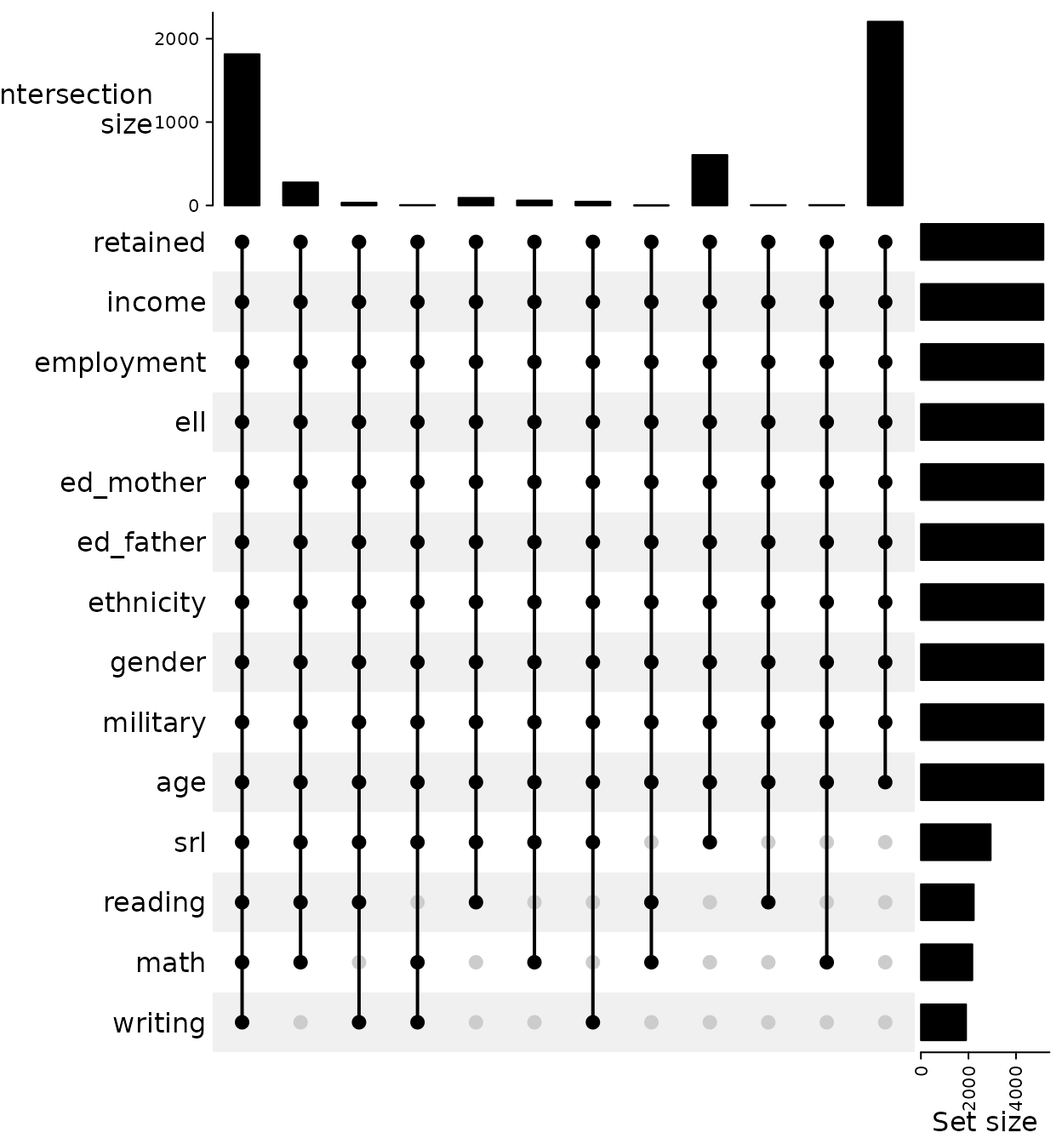
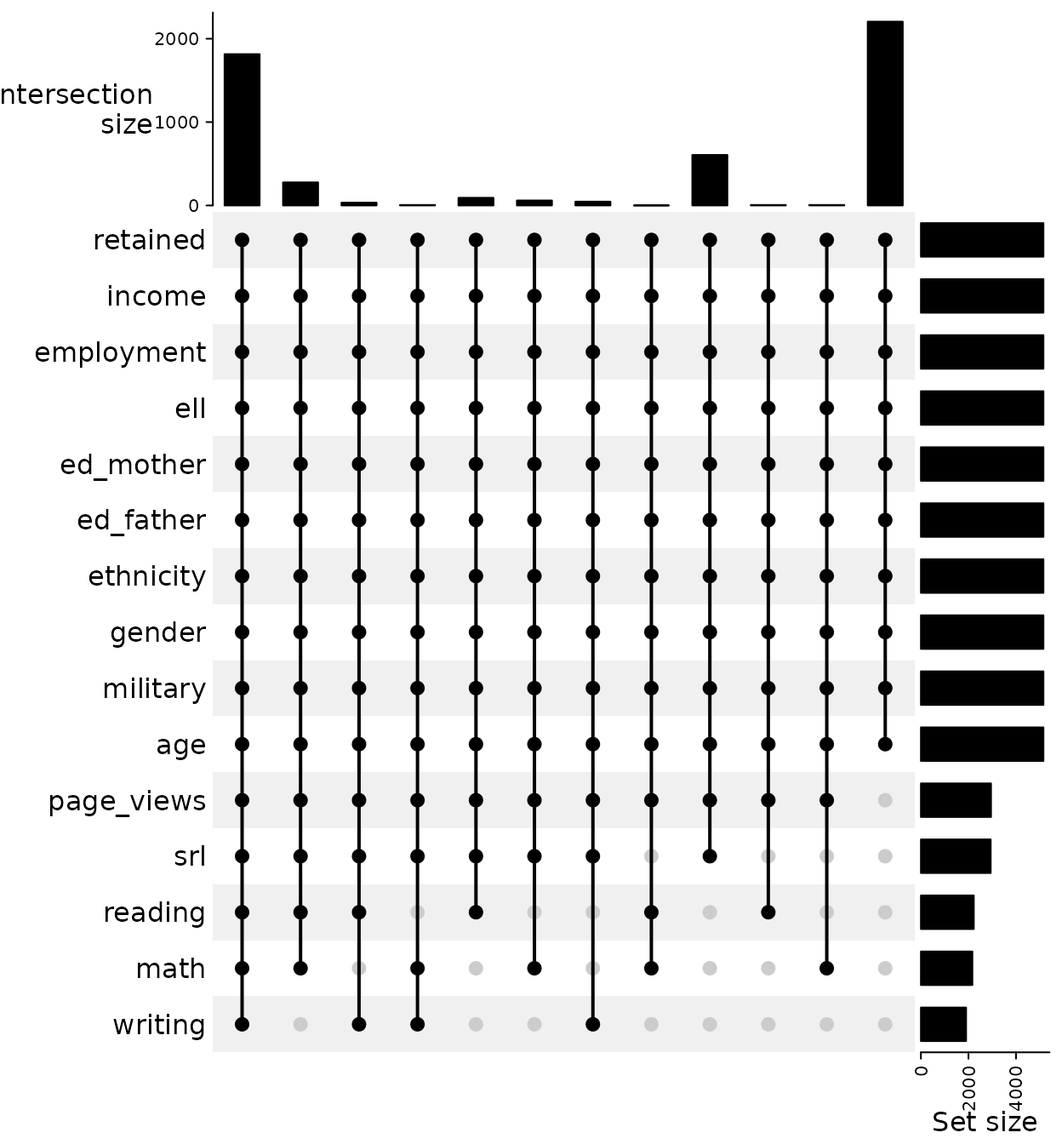
Deploying to gh-pages from @ jbryer/medley@984eda3847856fd7dd8a18c2cd9297b23d243687 🚀

diff --git a/articles/medley.html b/articles/medley.html
@@ -173,6 +173,22 @@ retained
 </tr>
 <tr>
 <td style="text-align:left;">
+page_views
+</td>
+<td style="text-align:left;">
+</td>
+<td style="text-align:left;">
+39
+</td>
+<td style="text-align:left;">
+24
+</td>
+<td style="text-align:left;">
+34
+</td>
+</tr>
+<tr>
+<td style="text-align:left;">
 srl
 </td>
 <td style="text-align:left;">
@@ -592,10 +608,10 @@ regression model using the full data set.</p>
 <span>                 predicted <span class="op">=</span> <span class="va">mice_lr_predictions</span> <span class="op">&gt;</span> <span class="fl">0.5</span><span class="op">)</span></span>
 <span><span class="co">#&gt;               predicted             </span></span>
 <span><span class="co">#&gt;   observed        FALSE         TRUE</span></span>
-<span><span class="co">#&gt;      FALSE 288 (18.62%) 393 (25.40%)</span></span>
-<span><span class="co">#&gt;       TRUE 212 (13.70%) 654 (42.28%)</span></span>
-<span><span class="co">#&gt; Accuracy: 60.89%</span></span></code></pre></div>
-<p>The overall accuracy using only imputed data set is 60.89%</p>
+<span><span class="co">#&gt;      FALSE 297 (19.20%) 384 (24.82%)</span></span>
+<span><span class="co">#&gt;       TRUE 213 (13.77%) 653 (42.21%)</span></span>
+<span><span class="co">#&gt; Accuracy: 61.41%</span></span></code></pre></div>
+<p>The overall accuracy using only imputed data set is 61.41%</p>
 </div>
 </div>
 <div class="section level2">
@@ -619,37 +635,37 @@ take any additional parameters that need to be passed to the
 by model along with the number of observations and formula for each of
 the models. Before exploring the specific of the modeling this reveals
 that the pattern of missing data is predictive of success. Students who
-complete all four DAACS assessments are 27.8% more likely to be retained
+complete all four DAACS assessments are % more likely to be retained
 then students who did not complete any of the assessments.</p>
 <table class="table">
 <caption>Baseline retention rate by model</caption>
 <colgroup>
 <col width="3%">
 <col width="3%">
-<col width="5%">
-<col width="86%">
+<col width="4%">
+<col width="88%">
 </colgroup>
 <thead><tr class="header">
 <th align="right">Model</th>
 <th align="right">n</th>
-<th align="right">Retained</th>
-<th align="left">Model Formula</th>
+<th align="right">Success</th>
+<th align="left">Formula</th>
 </tr></thead>
 <tbody>
 <tr class="odd">
 <td align="right">1</td>
 <td align="right">1268</td>
 <td align="right">70.98</td>
-<td align="left">retained ~ srl + math + reading + writing + income +
-employment + ell + ed_mother + ed_father + ethnicity + gender + military
-+ age</td>
+<td align="left">retained ~ page_views + srl + math + reading + writing
++ income + employment + ell + ed_mother + ed_father + ethnicity + gender
++ military + age</td>
 </tr>
 <tr class="even">
 <td align="right">2</td>
 <td align="right">788</td>
 <td align="right">58.25</td>
-<td align="left">retained ~ srl + income + employment + ell + ed_mother
-+ ed_father + ethnicity + gender + military + age</td>
+<td align="left">retained ~ page_views + srl + income + employment + ell
++ ed_mother + ed_father + ethnicity + gender + military + age</td>
 </tr>
 <tr class="odd">
 <td align="right">3</td>
@@ -704,26 +720,35 @@ models estimated.</p>
 </tr>
 <tr>
 <th style="vertical-align: top; text-align: left; white-space: normal; border-style: solid solid solid solid; border-width: 0pt 0pt 0pt 0pt;    padding: 6pt 6pt 6pt 6pt; font-weight: normal;">(Intercept)</th>
-<td style="vertical-align: top; text-align: right; white-space: normal; border-style: solid solid solid solid; border-width: 0.4pt 0pt 0pt 0pt;    padding: 6pt 6pt 6pt 6pt; font-weight: normal;">0.551 ***</td>
-<td style="vertical-align: top; text-align: right; white-space: normal; border-style: solid solid solid solid; border-width: 0.4pt 0pt 0pt 0pt;    padding: 6pt 6pt 6pt 6pt; font-weight: normal;">(0.143)</td>
-<td style="vertical-align: top; text-align: right; white-space: normal; border-style: solid solid solid solid; border-width: 0.4pt 0pt 0pt 0pt;    padding: 6pt 6pt 6pt 6pt; font-weight: normal;">0.520 ** </td>
-<td style="vertical-align: top; text-align: right; white-space: normal; border-style: solid solid solid solid; border-width: 0.4pt 0pt 0pt 0pt;    padding: 6pt 6pt 6pt 6pt; font-weight: normal;">(0.173)</td>
+<td style="vertical-align: top; text-align: right; white-space: normal; border-style: solid solid solid solid; border-width: 0.4pt 0pt 0pt 0pt;    padding: 6pt 6pt 6pt 6pt; font-weight: normal;">0.574 ***</td>
+<td style="vertical-align: top; text-align: right; white-space: normal; border-style: solid solid solid solid; border-width: 0.4pt 0pt 0pt 0pt;    padding: 6pt 6pt 6pt 6pt; font-weight: normal;">(0.144)</td>
+<td style="vertical-align: top; text-align: right; white-space: normal; border-style: solid solid solid solid; border-width: 0.4pt 0pt 0pt 0pt;    padding: 6pt 6pt 6pt 6pt; font-weight: normal;">0.533 ** </td>
+<td style="vertical-align: top; text-align: right; white-space: normal; border-style: solid solid solid solid; border-width: 0.4pt 0pt 0pt 0pt;    padding: 6pt 6pt 6pt 6pt; font-weight: normal;">(0.175)</td>
 <td style="vertical-align: top; text-align: right; white-space: normal; border-style: solid solid solid solid; border-width: 0.4pt 0pt 0pt 0pt;    padding: 6pt 6pt 6pt 6pt; font-weight: normal;">0.435 ***</td>
 <td style="vertical-align: top; text-align: right; white-space: normal; border-style: solid solid solid solid; border-width: 0.4pt 0pt 0pt 0pt;    padding: 6pt 6pt 6pt 6pt; font-weight: normal;">(0.085)</td>
 </tr>
 <tr>
+<th style="vertical-align: top; text-align: left; white-space: normal; border-style: solid solid solid solid; border-width: 0pt 0pt 0pt 0pt;    padding: 6pt 6pt 6pt 6pt; font-weight: normal;">page_views</th>
+<td style="vertical-align: top; text-align: right; white-space: normal; border-style: solid solid solid solid; border-width: 0pt 0pt 0pt 0pt;    padding: 6pt 6pt 6pt 6pt; font-weight: normal;">-0.001    </td>
+<td style="vertical-align: top; text-align: right; white-space: normal; border-style: solid solid solid solid; border-width: 0pt 0pt 0pt 0pt;    padding: 6pt 6pt 6pt 6pt; font-weight: normal;">(0.001)</td>
+<td style="vertical-align: top; text-align: right; white-space: normal; border-style: solid solid solid solid; border-width: 0pt 0pt 0pt 0pt;    padding: 6pt 6pt 6pt 6pt; font-weight: normal;">-0.001    </td>
+<td style="vertical-align: top; text-align: right; white-space: normal; border-style: solid solid solid solid; border-width: 0pt 0pt 0pt 0pt;    padding: 6pt 6pt 6pt 6pt; font-weight: normal;">(0.001)</td>
+<td style="vertical-align: top; text-align: right; white-space: normal; border-style: solid solid solid solid; border-width: 0pt 0pt 0pt 0pt;    padding: 6pt 6pt 6pt 6pt; font-weight: normal;">        </td>
+<td style="vertical-align: top; text-align: right; white-space: normal; border-style: solid solid solid solid; border-width: 0pt 0pt 0pt 0pt;    padding: 6pt 6pt 6pt 6pt; font-weight: normal;">     </td>
+</tr>
+<tr>
 <th style="vertical-align: top; text-align: left; white-space: normal; border-style: solid solid solid solid; border-width: 0pt 0pt 0pt 0pt;    padding: 6pt 6pt 6pt 6pt; font-weight: normal;">srl</th>
-<td style="vertical-align: top; text-align: right; white-space: normal; border-style: solid solid solid solid; border-width: 0pt 0pt 0pt 0pt;    padding: 6pt 6pt 6pt 6pt; font-weight: normal;">-0.023    </td>
+<td style="vertical-align: top; text-align: right; white-space: normal; border-style: solid solid solid solid; border-width: 0pt 0pt 0pt 0pt;    padding: 6pt 6pt 6pt 6pt; font-weight: normal;">-0.025    </td>
 <td style="vertical-align: top; text-align: right; white-space: normal; border-style: solid solid solid solid; border-width: 0pt 0pt 0pt 0pt;    padding: 6pt 6pt 6pt 6pt; font-weight: normal;">(0.031)</td>
-<td style="vertical-align: top; text-align: right; white-space: normal; border-style: solid solid solid solid; border-width: 0pt 0pt 0pt 0pt;    padding: 6pt 6pt 6pt 6pt; font-weight: normal;">-0.044    </td>
+<td style="vertical-align: top; text-align: right; white-space: normal; border-style: solid solid solid solid; border-width: 0pt 0pt 0pt 0pt;    padding: 6pt 6pt 6pt 6pt; font-weight: normal;">-0.043    </td>
 <td style="vertical-align: top; text-align: right; white-space: normal; border-style: solid solid solid solid; border-width: 0pt 0pt 0pt 0pt;    padding: 6pt 6pt 6pt 6pt; font-weight: normal;">(0.042)</td>
 <td style="vertical-align: top; text-align: right; white-space: normal; border-style: solid solid solid solid; border-width: 0pt 0pt 0pt 0pt;    padding: 6pt 6pt 6pt 6pt; font-weight: normal;">        </td>
 <td style="vertical-align: top; text-align: right; white-space: normal; border-style: solid solid solid solid; border-width: 0pt 0pt 0pt 0pt;    padding: 6pt 6pt 6pt 6pt; font-weight: normal;">     </td>
 </tr>
 <tr>
 <th style="vertical-align: top; text-align: left; white-space: normal; border-style: solid solid solid solid; border-width: 0pt 0pt 0pt 0pt;    padding: 6pt 6pt 6pt 6pt; font-weight: normal;">math</th>
-<td style="vertical-align: top; text-align: right; white-space: normal; border-style: solid solid solid solid; border-width: 0pt 0pt 0pt 0pt;    padding: 6pt 6pt 6pt 6pt; font-weight: normal;">0.074    </td>
-<td style="vertical-align: top; text-align: right; white-space: normal; border-style: solid solid solid solid; border-width: 0pt 0pt 0pt 0pt;    padding: 6pt 6pt 6pt 6pt; font-weight: normal;">(0.074)</td>
+<td style="vertical-align: top; text-align: right; white-space: normal; border-style: solid solid solid solid; border-width: 0pt 0pt 0pt 0pt;    padding: 6pt 6pt 6pt 6pt; font-weight: normal;">0.085    </td>
+<td style="vertical-align: top; text-align: right; white-space: normal; border-style: solid solid solid solid; border-width: 0pt 0pt 0pt 0pt;    padding: 6pt 6pt 6pt 6pt; font-weight: normal;">(0.075)</td>
 <td style="vertical-align: top; text-align: right; white-space: normal; border-style: solid solid solid solid; border-width: 0pt 0pt 0pt 0pt;    padding: 6pt 6pt 6pt 6pt; font-weight: normal;">        </td>
 <td style="vertical-align: top; text-align: right; white-space: normal; border-style: solid solid solid solid; border-width: 0pt 0pt 0pt 0pt;    padding: 6pt 6pt 6pt 6pt; font-weight: normal;">     </td>
 <td style="vertical-align: top; text-align: right; white-space: normal; border-style: solid solid solid solid; border-width: 0pt 0pt 0pt 0pt;    padding: 6pt 6pt 6pt 6pt; font-weight: normal;">        </td>
@@ -740,8 +765,8 @@ models estimated.</p>
 </tr>
 <tr>
 <th style="vertical-align: top; text-align: left; white-space: normal; border-style: solid solid solid solid; border-width: 0pt 0pt 0pt 0pt;    padding: 6pt 6pt 6pt 6pt; font-weight: normal;">writing</th>
-<td style="vertical-align: top; text-align: right; white-space: normal; border-style: solid solid solid solid; border-width: 0pt 0pt 0pt 0pt;    padding: 6pt 6pt 6pt 6pt; font-weight: normal;">0.007    </td>
-<td style="vertical-align: top; text-align: right; white-space: normal; border-style: solid solid solid solid; border-width: 0pt 0pt 0pt 0pt;    padding: 6pt 6pt 6pt 6pt; font-weight: normal;">(0.082)</td>
+<td style="vertical-align: top; text-align: right; white-space: normal; border-style: solid solid solid solid; border-width: 0pt 0pt 0pt 0pt;    padding: 6pt 6pt 6pt 6pt; font-weight: normal;">0.031    </td>
+<td style="vertical-align: top; text-align: right; white-space: normal; border-style: solid solid solid solid; border-width: 0pt 0pt 0pt 0pt;    padding: 6pt 6pt 6pt 6pt; font-weight: normal;">(0.083)</td>
 <td style="vertical-align: top; text-align: right; white-space: normal; border-style: solid solid solid solid; border-width: 0pt 0pt 0pt 0pt;    padding: 6pt 6pt 6pt 6pt; font-weight: normal;">        </td>
 <td style="vertical-align: top; text-align: right; white-space: normal; border-style: solid solid solid solid; border-width: 0pt 0pt 0pt 0pt;    padding: 6pt 6pt 6pt 6pt; font-weight: normal;">     </td>
 <td style="vertical-align: top; text-align: right; white-space: normal; border-style: solid solid solid solid; border-width: 0pt 0pt 0pt 0pt;    padding: 6pt 6pt 6pt 6pt; font-weight: normal;">        </td>
@@ -749,16 +774,16 @@ models estimated.</p>
 </tr>
 <tr>
 <th style="vertical-align: top; text-align: left; white-space: normal; border-style: solid solid solid solid; border-width: 0pt 0pt 0pt 0pt;    padding: 6pt 6pt 6pt 6pt; font-weight: normal;">income</th>
-<td style="vertical-align: top; text-align: right; white-space: normal; border-style: solid solid solid solid; border-width: 0pt 0pt 0pt 0pt;    padding: 6pt 6pt 6pt 6pt; font-weight: normal;">-0.001    </td>
+<td style="vertical-align: top; text-align: right; white-space: normal; border-style: solid solid solid solid; border-width: 0pt 0pt 0pt 0pt;    padding: 6pt 6pt 6pt 6pt; font-weight: normal;">-0.000    </td>
 <td style="vertical-align: top; text-align: right; white-space: normal; border-style: solid solid solid solid; border-width: 0pt 0pt 0pt 0pt;    padding: 6pt 6pt 6pt 6pt; font-weight: normal;">(0.006)</td>
-<td style="vertical-align: top; text-align: right; white-space: normal; border-style: solid solid solid solid; border-width: 0pt 0pt 0pt 0pt;    padding: 6pt 6pt 6pt 6pt; font-weight: normal;">0.011    </td>
+<td style="vertical-align: top; text-align: right; white-space: normal; border-style: solid solid solid solid; border-width: 0pt 0pt 0pt 0pt;    padding: 6pt 6pt 6pt 6pt; font-weight: normal;">0.010    </td>
 <td style="vertical-align: top; text-align: right; white-space: normal; border-style: solid solid solid solid; border-width: 0pt 0pt 0pt 0pt;    padding: 6pt 6pt 6pt 6pt; font-weight: normal;">(0.008)</td>
 <td style="vertical-align: top; text-align: right; white-space: normal; border-style: solid solid solid solid; border-width: 0pt 0pt 0pt 0pt;    padding: 6pt 6pt 6pt 6pt; font-weight: normal;">0.014 *  </td>
 <td style="vertical-align: top; text-align: right; white-space: normal; border-style: solid solid solid solid; border-width: 0pt 0pt 0pt 0pt;    padding: 6pt 6pt 6pt 6pt; font-weight: normal;">(0.006)</td>
 </tr>
 <tr>
 <th style="vertical-align: top; text-align: left; white-space: normal; border-style: solid solid solid solid; border-width: 0pt 0pt 0pt 0pt;    padding: 6pt 6pt 6pt 6pt; font-weight: normal;">employment</th>
-<td style="vertical-align: top; text-align: right; white-space: normal; border-style: solid solid solid solid; border-width: 0pt 0pt 0pt 0pt;    padding: 6pt 6pt 6pt 6pt; font-weight: normal;">0.031    </td>
+<td style="vertical-align: top; text-align: right; white-space: normal; border-style: solid solid solid solid; border-width: 0pt 0pt 0pt 0pt;    padding: 6pt 6pt 6pt 6pt; font-weight: normal;">0.030    </td>
 <td style="vertical-align: top; text-align: right; white-space: normal; border-style: solid solid solid solid; border-width: 0pt 0pt 0pt 0pt;    padding: 6pt 6pt 6pt 6pt; font-weight: normal;">(0.017)</td>
 <td style="vertical-align: top; text-align: right; white-space: normal; border-style: solid solid solid solid; border-width: 0pt 0pt 0pt 0pt;    padding: 6pt 6pt 6pt 6pt; font-weight: normal;">-0.043    </td>
 <td style="vertical-align: top; text-align: right; white-space: normal; border-style: solid solid solid solid; border-width: 0pt 0pt 0pt 0pt;    padding: 6pt 6pt 6pt 6pt; font-weight: normal;">(0.024)</td>
@@ -767,9 +792,9 @@ models estimated.</p>
 </tr>
 <tr>
 <th style="vertical-align: top; text-align: left; white-space: normal; border-style: solid solid solid solid; border-width: 0pt 0pt 0pt 0pt;    padding: 6pt 6pt 6pt 6pt; font-weight: normal;">ell</th>
-<td style="vertical-align: top; text-align: right; white-space: normal; border-style: solid solid solid solid; border-width: 0pt 0pt 0pt 0pt;    padding: 6pt 6pt 6pt 6pt; font-weight: normal;">0.006    </td>
+<td style="vertical-align: top; text-align: right; white-space: normal; border-style: solid solid solid solid; border-width: 0pt 0pt 0pt 0pt;    padding: 6pt 6pt 6pt 6pt; font-weight: normal;">0.004    </td>
 <td style="vertical-align: top; text-align: right; white-space: normal; border-style: solid solid solid solid; border-width: 0pt 0pt 0pt 0pt;    padding: 6pt 6pt 6pt 6pt; font-weight: normal;">(0.053)</td>
-<td style="vertical-align: top; text-align: right; white-space: normal; border-style: solid solid solid solid; border-width: 0pt 0pt 0pt 0pt;    padding: 6pt 6pt 6pt 6pt; font-weight: normal;">0.105    </td>
+<td style="vertical-align: top; text-align: right; white-space: normal; border-style: solid solid solid solid; border-width: 0pt 0pt 0pt 0pt;    padding: 6pt 6pt 6pt 6pt; font-weight: normal;">0.103    </td>
 <td style="vertical-align: top; text-align: right; white-space: normal; border-style: solid solid solid solid; border-width: 0pt 0pt 0pt 0pt;    padding: 6pt 6pt 6pt 6pt; font-weight: normal;">(0.074)</td>
 <td style="vertical-align: top; text-align: right; white-space: normal; border-style: solid solid solid solid; border-width: 0pt 0pt 0pt 0pt;    padding: 6pt 6pt 6pt 6pt; font-weight: normal;">0.069    </td>
 <td style="vertical-align: top; text-align: right; white-space: normal; border-style: solid solid solid solid; border-width: 0pt 0pt 0pt 0pt;    padding: 6pt 6pt 6pt 6pt; font-weight: normal;">(0.047)</td>
@@ -785,7 +810,7 @@ models estimated.</p>
 </tr>
 <tr>
 <th style="vertical-align: top; text-align: left; white-space: normal; border-style: solid solid solid solid; border-width: 0pt 0pt 0pt 0pt;    padding: 6pt 6pt 6pt 6pt; font-weight: normal;">ed_father</th>
-<td style="vertical-align: top; text-align: right; white-space: normal; border-style: solid solid solid solid; border-width: 0pt 0pt 0pt 0pt;    padding: 6pt 6pt 6pt 6pt; font-weight: normal;">0.003    </td>
+<td style="vertical-align: top; text-align: right; white-space: normal; border-style: solid solid solid solid; border-width: 0pt 0pt 0pt 0pt;    padding: 6pt 6pt 6pt 6pt; font-weight: normal;">0.002    </td>
 <td style="vertical-align: top; text-align: right; white-space: normal; border-style: solid solid solid solid; border-width: 0pt 0pt 0pt 0pt;    padding: 6pt 6pt 6pt 6pt; font-weight: normal;">(0.008)</td>
 <td style="vertical-align: top; text-align: right; white-space: normal; border-style: solid solid solid solid; border-width: 0pt 0pt 0pt 0pt;    padding: 6pt 6pt 6pt 6pt; font-weight: normal;">0.021    </td>
 <td style="vertical-align: top; text-align: right; white-space: normal; border-style: solid solid solid solid; border-width: 0pt 0pt 0pt 0pt;    padding: 6pt 6pt 6pt 6pt; font-weight: normal;">(0.012)</td>
@@ -794,9 +819,9 @@ models estimated.</p>
 </tr>
 <tr>
 <th style="vertical-align: top; text-align: left; white-space: normal; border-style: solid solid solid solid; border-width: 0pt 0pt 0pt 0pt;    padding: 6pt 6pt 6pt 6pt; font-weight: normal;">ethnicityHispanic</th>
-<td style="vertical-align: top; text-align: right; white-space: normal; border-style: solid solid solid solid; border-width: 0pt 0pt 0pt 0pt;    padding: 6pt 6pt 6pt 6pt; font-weight: normal;">-0.047    </td>
+<td style="vertical-align: top; text-align: right; white-space: normal; border-style: solid solid solid solid; border-width: 0pt 0pt 0pt 0pt;    padding: 6pt 6pt 6pt 6pt; font-weight: normal;">-0.049    </td>
 <td style="vertical-align: top; text-align: right; white-space: normal; border-style: solid solid solid solid; border-width: 0pt 0pt 0pt 0pt;    padding: 6pt 6pt 6pt 6pt; font-weight: normal;">(0.050)</td>
-<td style="vertical-align: top; text-align: right; white-space: normal; border-style: solid solid solid solid; border-width: 0pt 0pt 0pt 0pt;    padding: 6pt 6pt 6pt 6pt; font-weight: normal;">0.101    </td>
+<td style="vertical-align: top; text-align: right; white-space: normal; border-style: solid solid solid solid; border-width: 0pt 0pt 0pt 0pt;    padding: 6pt 6pt 6pt 6pt; font-weight: normal;">0.102    </td>
 <td style="vertical-align: top; text-align: right; white-space: normal; border-style: solid solid solid solid; border-width: 0pt 0pt 0pt 0pt;    padding: 6pt 6pt 6pt 6pt; font-weight: normal;">(0.061)</td>
 <td style="vertical-align: top; text-align: right; white-space: normal; border-style: solid solid solid solid; border-width: 0pt 0pt 0pt 0pt;    padding: 6pt 6pt 6pt 6pt; font-weight: normal;">0.026    </td>
 <td style="vertical-align: top; text-align: right; white-space: normal; border-style: solid solid solid solid; border-width: 0pt 0pt 0pt 0pt;    padding: 6pt 6pt 6pt 6pt; font-weight: normal;">(0.043)</td>
@@ -805,14 +830,14 @@ models estimated.</p>
 <th style="vertical-align: top; text-align: left; white-space: normal; border-style: solid solid solid solid; border-width: 0pt 0pt 0pt 0pt;    padding: 6pt 6pt 6pt 6pt; font-weight: normal;">ethnicityOther</th>
 <td style="vertical-align: top; text-align: right; white-space: normal; border-style: solid solid solid solid; border-width: 0pt 0pt 0pt 0pt;    padding: 6pt 6pt 6pt 6pt; font-weight: normal;">-0.003    </td>
 <td style="vertical-align: top; text-align: right; white-space: normal; border-style: solid solid solid solid; border-width: 0pt 0pt 0pt 0pt;    padding: 6pt 6pt 6pt 6pt; font-weight: normal;">(0.051)</td>
-<td style="vertical-align: top; text-align: right; white-space: normal; border-style: solid solid solid solid; border-width: 0pt 0pt 0pt 0pt;    padding: 6pt 6pt 6pt 6pt; font-weight: normal;">0.049    </td>
-<td style="vertical-align: top; text-align: right; white-space: normal; border-style: solid solid solid solid; border-width: 0pt 0pt 0pt 0pt;    padding: 6pt 6pt 6pt 6pt; font-weight: normal;">(0.066)</td>
+<td style="vertical-align: top; text-align: right; white-space: normal; border-style: solid solid solid solid; border-width: 0pt 0pt 0pt 0pt;    padding: 6pt 6pt 6pt 6pt; font-weight: normal;">0.052    </td>
+<td style="vertical-align: top; text-align: right; white-space: normal; border-style: solid solid solid solid; border-width: 0pt 0pt 0pt 0pt;    padding: 6pt 6pt 6pt 6pt; font-weight: normal;">(0.067)</td>
 <td style="vertical-align: top; text-align: right; white-space: normal; border-style: solid solid solid solid; border-width: 0pt 0pt 0pt 0pt;    padding: 6pt 6pt 6pt 6pt; font-weight: normal;">0.057    </td>
 <td style="vertical-align: top; text-align: right; white-space: normal; border-style: solid solid solid solid; border-width: 0pt 0pt 0pt 0pt;    padding: 6pt 6pt 6pt 6pt; font-weight: normal;">(0.046)</td>
 </tr>
 <tr>
 <th style="vertical-align: top; text-align: left; white-space: normal; border-style: solid solid solid solid; border-width: 0pt 0pt 0pt 0pt;    padding: 6pt 6pt 6pt 6pt; font-weight: normal;">ethnicityWhite</th>
-<td style="vertical-align: top; text-align: right; white-space: normal; border-style: solid solid solid solid; border-width: 0pt 0pt 0pt 0pt;    padding: 6pt 6pt 6pt 6pt; font-weight: normal;">0.012    </td>
+<td style="vertical-align: top; text-align: right; white-space: normal; border-style: solid solid solid solid; border-width: 0pt 0pt 0pt 0pt;    padding: 6pt 6pt 6pt 6pt; font-weight: normal;">0.009    </td>
 <td style="vertical-align: top; text-align: right; white-space: normal; border-style: solid solid solid solid; border-width: 0pt 0pt 0pt 0pt;    padding: 6pt 6pt 6pt 6pt; font-weight: normal;">(0.039)</td>
 <td style="vertical-align: top; text-align: right; white-space: normal; border-style: solid solid solid solid; border-width: 0pt 0pt 0pt 0pt;    padding: 6pt 6pt 6pt 6pt; font-weight: normal;">0.082    </td>
 <td style="vertical-align: top; text-align: right; white-space: normal; border-style: solid solid solid solid; border-width: 0pt 0pt 0pt 0pt;    padding: 6pt 6pt 6pt 6pt; font-weight: normal;">(0.045)</td>
@@ -821,18 +846,18 @@ models estimated.</p>
 </tr>
 <tr>
 <th style="vertical-align: top; text-align: left; white-space: normal; border-style: solid solid solid solid; border-width: 0pt 0pt 0pt 0pt;    padding: 6pt 6pt 6pt 6pt; font-weight: normal;">genderMALE</th>
-<td style="vertical-align: top; text-align: right; white-space: normal; border-style: solid solid solid solid; border-width: 0pt 0pt 0pt 0pt;    padding: 6pt 6pt 6pt 6pt; font-weight: normal;">0.040    </td>
+<td style="vertical-align: top; text-align: right; white-space: normal; border-style: solid solid solid solid; border-width: 0pt 0pt 0pt 0pt;    padding: 6pt 6pt 6pt 6pt; font-weight: normal;">0.037    </td>
 <td style="vertical-align: top; text-align: right; white-space: normal; border-style: solid solid solid solid; border-width: 0pt 0pt 0pt 0pt;    padding: 6pt 6pt 6pt 6pt; font-weight: normal;">(0.029)</td>
-<td style="vertical-align: top; text-align: right; white-space: normal; border-style: solid solid solid solid; border-width: 0pt 0pt 0pt 0pt;    padding: 6pt 6pt 6pt 6pt; font-weight: normal;">-0.011    </td>
+<td style="vertical-align: top; text-align: right; white-space: normal; border-style: solid solid solid solid; border-width: 0pt 0pt 0pt 0pt;    padding: 6pt 6pt 6pt 6pt; font-weight: normal;">-0.010    </td>
 <td style="vertical-align: top; text-align: right; white-space: normal; border-style: solid solid solid solid; border-width: 0pt 0pt 0pt 0pt;    padding: 6pt 6pt 6pt 6pt; font-weight: normal;">(0.040)</td>
 <td style="vertical-align: top; text-align: right; white-space: normal; border-style: solid solid solid solid; border-width: 0pt 0pt 0pt 0pt;    padding: 6pt 6pt 6pt 6pt; font-weight: normal;">0.064 *  </td>
 <td style="vertical-align: top; text-align: right; white-space: normal; border-style: solid solid solid solid; border-width: 0pt 0pt 0pt 0pt;    padding: 6pt 6pt 6pt 6pt; font-weight: normal;">(0.027)</td>
 </tr>
 <tr>
 <th style="vertical-align: top; text-align: left; white-space: normal; border-style: solid solid solid solid; border-width: 0pt 0pt 0pt 0pt;    padding: 6pt 6pt 6pt 6pt; font-weight: normal;">militaryTRUE</th>
-<td style="vertical-align: top; text-align: right; white-space: normal; border-style: solid solid solid solid; border-width: 0pt 0pt 0pt 0pt;    padding: 6pt 6pt 6pt 6pt; font-weight: normal;">0.169 ***</td>
-<td style="vertical-align: top; text-align: right; white-space: normal; border-style: solid solid solid solid; border-width: 0pt 0pt 0pt 0pt;    padding: 6pt 6pt 6pt 6pt; font-weight: normal;">(0.029)</td>
-<td style="vertical-align: top; text-align: right; white-space: normal; border-style: solid solid solid solid; border-width: 0pt 0pt 0pt 0pt;    padding: 6pt 6pt 6pt 6pt; font-weight: normal;">0.151 ***</td>
+<td style="vertical-align: top; text-align: right; white-space: normal; border-style: solid solid solid solid; border-width: 0pt 0pt 0pt 0pt;    padding: 6pt 6pt 6pt 6pt; font-weight: normal;">0.166 ***</td>
+<td style="vertical-align: top; text-align: right; white-space: normal; border-style: solid solid solid solid; border-width: 0pt 0pt 0pt 0pt;    padding: 6pt 6pt 6pt 6pt; font-weight: normal;">(0.030)</td>
+<td style="vertical-align: top; text-align: right; white-space: normal; border-style: solid solid solid solid; border-width: 0pt 0pt 0pt 0pt;    padding: 6pt 6pt 6pt 6pt; font-weight: normal;">0.150 ***</td>
 <td style="vertical-align: top; text-align: right; white-space: normal; border-style: solid solid solid solid; border-width: 0pt 0pt 0pt 0pt;    padding: 6pt 6pt 6pt 6pt; font-weight: normal;">(0.041)</td>
 <td style="vertical-align: top; text-align: right; white-space: normal; border-style: solid solid solid solid; border-width: 0pt 0pt 0pt 0pt;    padding: 6pt 6pt 6pt 6pt; font-weight: normal;">0.174 ***</td>
 <td style="vertical-align: top; text-align: right; white-space: normal; border-style: solid solid solid solid; border-width: 0pt 0pt 0pt 0pt;    padding: 6pt 6pt 6pt 6pt; font-weight: normal;">(0.029)</td>
@@ -857,18 +882,18 @@ models estimated.</p>
 </tr>
 <tr>
 <th style="vertical-align: top; text-align: left; white-space: normal; border-style: solid solid solid solid; border-width: 0pt 0pt 0pt 0pt;    padding: 6pt 6pt 6pt 6pt; font-weight: normal;">logLik</th>
-<td style="vertical-align: top; text-align: right; white-space: normal; border-style: solid solid solid solid; border-width: 0pt 0pt 0pt 0pt;    padding: 6pt 6pt 6pt 6pt; font-weight: normal;">-760.863    </td>
+<td style="vertical-align: top; text-align: right; white-space: normal; border-style: solid solid solid solid; border-width: 0pt 0pt 0pt 0pt;    padding: 6pt 6pt 6pt 6pt; font-weight: normal;">-759.912    </td>
 <td style="vertical-align: top; text-align: right; white-space: normal; border-style: solid solid solid solid; border-width: 0pt 0pt 0pt 0pt;    padding: 6pt 6pt 6pt 6pt; font-weight: normal;">     </td>
-<td style="vertical-align: top; text-align: right; white-space: normal; border-style: solid solid solid solid; border-width: 0pt 0pt 0pt 0pt;    padding: 6pt 6pt 6pt 6pt; font-weight: normal;">-538.649    </td>
+<td style="vertical-align: top; text-align: right; white-space: normal; border-style: solid solid solid solid; border-width: 0pt 0pt 0pt 0pt;    padding: 6pt 6pt 6pt 6pt; font-weight: normal;">-538.476    </td>
 <td style="vertical-align: top; text-align: right; white-space: normal; border-style: solid solid solid solid; border-width: 0pt 0pt 0pt 0pt;    padding: 6pt 6pt 6pt 6pt; font-weight: normal;">     </td>
 <td style="vertical-align: top; text-align: right; white-space: normal; border-style: solid solid solid solid; border-width: 0pt 0pt 0pt 0pt;    padding: 6pt 6pt 6pt 6pt; font-weight: normal;">-1052.473    </td>
 <td style="vertical-align: top; text-align: right; white-space: normal; border-style: solid solid solid solid; border-width: 0pt 0pt 0pt 0pt;    padding: 6pt 6pt 6pt 6pt; font-weight: normal;">     </td>
 </tr>
 <tr>
 <th style="vertical-align: top; text-align: left; white-space: normal; border-style: solid solid solid solid; border-width: 0pt 0pt 0.8pt 0pt;    padding: 6pt 6pt 6pt 6pt; font-weight: normal;">AIC</th>
-<td style="vertical-align: top; text-align: right; white-space: normal; border-style: solid solid solid solid; border-width: 0pt 0pt 0.8pt 0pt;    padding: 6pt 6pt 6pt 6pt; font-weight: normal;">1555.726    </td>
+<td style="vertical-align: top; text-align: right; white-space: normal; border-style: solid solid solid solid; border-width: 0pt 0pt 0.8pt 0pt;    padding: 6pt 6pt 6pt 6pt; font-weight: normal;">1555.824    </td>
 <td style="vertical-align: top; text-align: right; white-space: normal; border-style: solid solid solid solid; border-width: 0pt 0pt 0.8pt 0pt;    padding: 6pt 6pt 6pt 6pt; font-weight: normal;">     </td>
-<td style="vertical-align: top; text-align: right; white-space: normal; border-style: solid solid solid solid; border-width: 0pt 0pt 0.8pt 0pt;    padding: 6pt 6pt 6pt 6pt; font-weight: normal;">1105.298    </td>
+<td style="vertical-align: top; text-align: right; white-space: normal; border-style: solid solid solid solid; border-width: 0pt 0pt 0.8pt 0pt;    padding: 6pt 6pt 6pt 6pt; font-weight: normal;">1106.953    </td>
 <td style="vertical-align: top; text-align: right; white-space: normal; border-style: solid solid solid solid; border-width: 0pt 0pt 0.8pt 0pt;    padding: 6pt 6pt 6pt 6pt; font-weight: normal;">     </td>
 <td style="vertical-align: top; text-align: right; white-space: normal; border-style: solid solid solid solid; border-width: 0pt 0pt 0.8pt 0pt;    padding: 6pt 6pt 6pt 6pt; font-weight: normal;">2130.946    </td>
 <td style="vertical-align: top; text-align: right; white-space: normal; border-style: solid solid solid solid; border-width: 0pt 0pt 0.8pt 0pt;    padding: 6pt 6pt 6pt 6pt; font-weight: normal;">     </td>
@@ -890,9 +915,9 @@ medley model is 61.086% which is a 5.11% over the baseline, or
 <span>                 predicted <span class="op">=</span> <span class="va">medley_lr_predictions</span> <span class="op">&gt;</span> <span class="fl">0.5</span><span class="op">)</span></span>
 <span><span class="co">#&gt;               predicted             </span></span>
 <span><span class="co">#&gt;   observed        FALSE         TRUE</span></span>
-<span><span class="co">#&gt;      FALSE 309 (19.97%) 372 (24.05%)</span></span>
+<span><span class="co">#&gt;      FALSE 306 (19.78%) 375 (24.24%)</span></span>
 <span><span class="co">#&gt;       TRUE 174 (11.25%) 692 (44.73%)</span></span>
-<span><span class="co">#&gt; Accuracy: 64.71%</span></span></code></pre></div>
+<span><span class="co">#&gt; Accuracy: 64.51%</span></span></code></pre></div>
 <div class="section level3">
 <h3 id="random-forests">Random Forests<a class="anchor" aria-label="anchor" href="#random-forests"></a>
 </h3>
@@ -925,9 +950,9 @@ logistic regression.</p>
 <span>                 predicted <span class="op">=</span> <span class="va">medley_rf_predictions</span> <span class="op">)</span></span>
 <span><span class="co">#&gt;               predicted             </span></span>
 <span><span class="co">#&gt;   observed            1            2</span></span>
-<span><span class="co">#&gt;      FALSE 321 (20.75%) 360 (23.27%)</span></span>
-<span><span class="co">#&gt;       TRUE 208 (13.45%) 658 (42.53%)</span></span>
-<span><span class="co">#&gt; Accuracy: 63.28%</span></span></code></pre></div>
+<span><span class="co">#&gt;      FALSE 320 (20.69%) 361 (23.34%)</span></span>
+<span><span class="co">#&gt;       TRUE 198 (12.80%) 668 (43.18%)</span></span>
+<span><span class="co">#&gt; Accuracy: 63.87%</span></span></code></pre></div>
 </div>
 <div class="section level3">
 <h3 id="using-observations-in-multiple-models">Using observations in multiple models<a class="anchor" aria-label="anchor" href="#using-observations-in-multiple-models"></a>
@@ -950,9 +975,9 @@ be used in training models for which there is complete data.</p>
 <span>                 predicted <span class="op">=</span> <span class="va">medley_rf_predictions2</span> <span class="op">)</span></span>
 <span><span class="co">#&gt;               predicted             </span></span>
 <span><span class="co">#&gt;   observed            1            2</span></span>
-<span><span class="co">#&gt;      FALSE 227 (14.67%) 454 (29.35%)</span></span>
-<span><span class="co">#&gt;       TRUE  115 (7.43%) 751 (48.55%)</span></span>
-<span><span class="co">#&gt; Accuracy: 63.22%</span></span></code></pre></div>
+<span><span class="co">#&gt;      FALSE 222 (14.35%) 459 (29.67%)</span></span>
+<span><span class="co">#&gt;       TRUE  112 (7.24%) 754 (48.74%)</span></span>
+<span><span class="co">#&gt; Accuracy: 63.09%</span></span></code></pre></div>
 <p>As the results above show we get a very modest increase in the
 overall accuracy. It should be noted that predictions are estimated from
 the model that uses most variables for each observation.</p>
